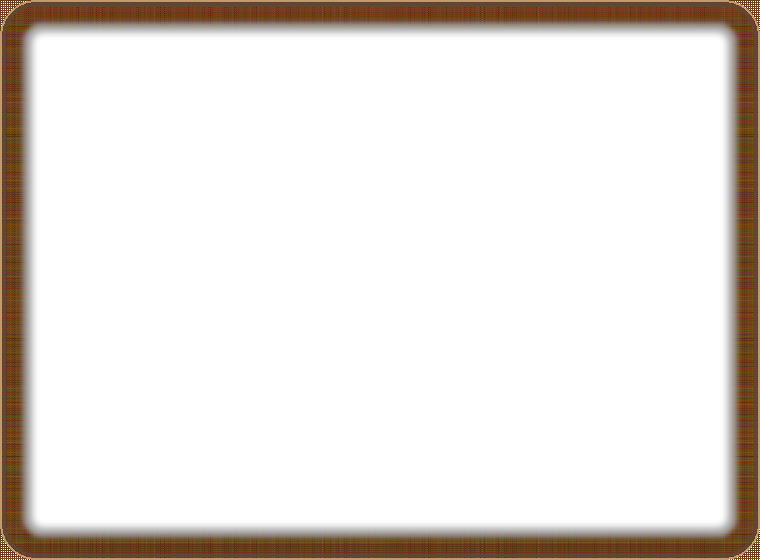
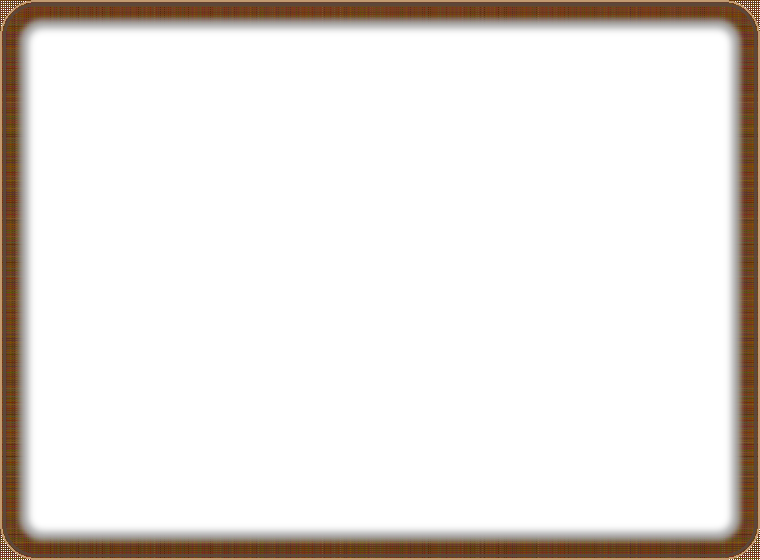
fix(ddz): 修正牌面贴图错位、木框压座位、手牌居中裁切
三个显示 bug：

1) 牌面张冠李戴（除黑桃外全部错位）。雪碧图是**按 8 列一行装箱**的，
   而取图序号写成了「花色段 × 13 + 点数位」之后又拿它去 `idx % 8` 求列，
   等于把「花色段」当成了「雪碧图行号」——两回事。黑桃段恰好对得上，
   所以只有黑桃是对的，红心/梅花/方块全部偏移到别的牌上，
   表现为底牌三张一模一样、手牌出现重复花色。
   现在按生成器的打包顺序算平铺序号（0..51 花色段×13+点数位，52 小王、53 大王），
   再拆成列/行。

2) 牌面在出牌区/窄屏下糊成一片。原来用固定像素缩放（SHEET_SCALE=0.484）
   算 background-size，这个系数只对手牌 62×93 成立；出牌区 52×78 与窄屏
   40×60 都错位。改为百分比定位：background-size 用 800% 700%，
   background-position 用 idx/(cols-1)，任何盒子尺寸都自动对齐，
   JS 里不再维护缩放系数。

3) 木框压住贴边的座位。frame.png 的透明内洞四边各留 36px（在 760×560 的图上），
   而 .ddz-table 的 padding 只有 22px，木纹因此盖住左右两家的名牌。
   把木框画薄到 20px（内洞 32px），padding 与之对齐到 30px。

顺带：
- 手牌容器 `justify-content:center` + `overflow-x:auto` 在内容溢出时
  起始边不可达，第一张牌会被挤出可滚动区域；改用 `margin:auto` 居中。
- .ddz-mini 里写死的 background-size 与 JS 打架，删掉。
- 牌桌加 width/max-width 约束，窄屏收紧内边距，避免横向溢出。

验证方式（无浏览器窗口，全部 headless）：
- 独立脚本复算 52 张牌的雪碧图序号，按角标颜色与同点数像素量核对，全部一致
- 百分比定位在 62×93 / 52×78 / 40×60 三种盒尺寸下逐格比对，零误差
- CDP 实跑一局：底牌/出牌/地主金冠与金头像框/手牌点数全部正确

Changed region(s): [[0.0, 0.0304, 0.9987, 0.9714]]

diff --git a/src/controllers/ddz-controller.ts b/src/controllers/ddz-controller.ts
@@ -37,17 +37,18 @@ const RANK_LABEL: Record<number, string> = {
   30: '大王',
 };
 /* ── 牌面雪碧图 ──
- * cards.png 是 8 列网格，每格 128×192（2× 于显示尺寸）。
- * 牌序与 gen-ddz-art.py 一致：黑桃 A..K、红心 A..K、梅花 A..K、方块 A..K、小王、大王。 */
+ * cards.png 是 8 列 × 7 行的网格，每格 128×192（2× 于显示尺寸）。
+ * 牌序与 scripts/gen-ddz-art.py 一致：
+ *   行 0 黑桃、行 1 红心、行 2 梅花、行 3 方块（A..K），行 4 小王、行 5 大王。
+ * 贴图不在这里算缩放，改用百分比定位，见 applyCardBg()。 */
 const SHEET_COLS = 8;
-const SHEET_TILE_W = 128;
-const SHEET_TILE_H = 192;
-const SHEET_W = SHEET_COLS * SHEET_TILE_W;
 const SHEET_ROWS = 7;
-const SHEET_H = SHEET_ROWS * SHEET_TILE_H;
 const SHEET_RANKS = ['A', '2', '3', '4', '5', '6', '7', '8', '9', '10', 'J', 'Q', 'K'] as const;
-/* 雪碧图按 2× 出图，缩到 0.484 正好对上 CSS 里的牌宽高 */
-const SHEET_SCALE = 0.484;
+/** 打包顺序里的花色段，必须与 gen-ddz-art.py 的 SUITS 一致 */
+const SHEET_SUITS = ['spade', 'heart', 'club', 'diamond'] as const;
+/** 大小王在打包顺序里的位置：4 花色 × 13 张之后 */
+const SHEET_JOKER_SMALL = 52;
+const SHEET_JOKER_BIG = 53;
 
 /** 牌值（3..17）→ 雪碧图里的点数记号 */
 const RANK_TO_SHEET: Record<number, string> = {
@@ -458,24 +459,40 @@ export class DoudizhuController {
     });
   }
 
-  /** 把一张牌贴到 cards.png 的对应格子上 */
+  /**
+   * 把一张牌贴到 cards.png 的对应格子上。
+   *
+   * 用百分比而不是像素：`background-size: 800% 700%` 让整张雪碧图正好是网格的
+   * 8×7 倍，每一格与元素同大小；`background-position` 的百分比相对
+   * (元素尺寸 - 图尺寸) 解析，所以第 n 格正好落在 n/(cols-1)。这样无论 CSS
+   * 把牌排成 62×93 的手牌、52×78 的出牌，还是窄屏的 40×60，贴图都自动对齐，
+   * JS 里不必再维护一份缩放系数。
+   */
   private applyCardBg(el: HTMLElement, c: DdzCard): void {
-    const row = this.sheetRow(c);
-    const rank = c.code === 20 ? 'small' : c.code === 30 ? 'big' : (RANK_TO_SHEET[c.code] ?? 'A');
-    const idx = row * SHEET_RANKS.length + (SHEET_RANKS as readonly string[]).indexOf(rank);
+    const idx = this.sheetIndex(c);
     const col = idx % SHEET_COLS;
     const line = Math.floor(idx / SHEET_COLS);
     el.style.backgroundImage = 'url("/ddz/cards.png")';
     el.style.backgroundRepeat = 'no-repeat';
-    el.style.backgroundSize = `${SHEET_W * SHEET_SCALE}px ${SHEET_H * SHEET_SCALE}px`;
-    el.style.backgroundPosition = `${-col * SHEET_TILE_W * SHEET_SCALE}px ${-line * SHEET_TILE_H * SHEET_SCALE}px`;
+    el.style.backgroundSize = `${SHEET_COLS * 100}% ${SHEET_ROWS * 100}%`;
+    el.style.backgroundPosition = `${(col / (SHEET_COLS - 1)) * 100}% ${(line / (SHEET_ROWS - 1)) * 100}%`;
   }
 
-  /** 牌在雪碧图里的行：0 黑桃 1 红心 2 梅花 3 方块 4 小王 5 大王 */
-  private sheetRow(c: DdzCard): number {
-    if (c.code === 20) return 4;
-    if (c.code === 30) return 5;
-    return c.suit;
+  /**
+   * 牌在雪碧图里的**平铺序号**（0..53）。
+   *
+   * 必须与 gen-ddz-art.py 的打包顺序严格一致：脚本先按
+   * 黑桃 → 红心 → 梅花 → 方块 把 4×13 张牌依次排成一条线，再接上小王、大王，
+   * 然后按 8 列一行装箱。所以序号是「花色段 × 13 + 点数位」，
+   * 而**不是**「雪碧图行号 × 13 + 点数位」——雪碧图一行只有 8 格，
+   * 花色段和雪碧图行号根本不是一回事。搞混会让除黑桃外的每种花色都错位。
+   */
+  private sheetIndex(c: DdzCard): number {
+    if (c.code === 20) return SHEET_JOKER_SMALL;
+    if (c.code === 30) return SHEET_JOKER_BIG;
+    const suit = (SHEET_SUITS as readonly string[]).indexOf(SHEET_SUITS[c.suit] ?? 'spade');
+    const rank = (SHEET_RANKS as readonly string[]).indexOf(RANK_TO_SHEET[c.code] ?? 'A');
+    return (suit < 0 ? 0 : suit) * SHEET_RANKS.length + (rank < 0 ? 0 : rank);
   }
 
   /** 底牌：地主确定前是牌背，之后翻成真牌 */

diff --git a/styles.css b/styles.css
@@ -970,11 +970,16 @@ footer::before {
   transform: rotate(-5deg);
 }
 
-/* ══ 牌桌主体 ══ */
+/* ══ 牌桌主体 ══
+   牌桌宽度跟随容器，窄屏靠收紧内边距与牌尺寸适配，不做横向溢出。
+   内边距必须容纳木框的画宽：frame.png 的透明内洞在 760×560 的图上四边各留 36px，
+   摊到实际尺寸约 34px。padding 小于它，木纹就会压住贴边的座位。 */
 .ddz-table {
   position: relative;
+  width: 100%;
+  max-width: 100%;
   border-radius: 26px;
-  padding: 22px;
+  padding: 30px;
   min-height: 560px;
   border: 3px solid var(--ddz-wood-dark);
   box-shadow:
@@ -1001,7 +1006,7 @@ footer::before {
   background: url("/ddz/frame.png") center / 100% 100% no-repeat;
   pointer-events: none;
 }
-.ddz-table-inner { position: relative; z-index: 2; min-height: 516px; }
+.ddz-table-inner { position: relative; z-index: 2; min-height: 488px; }
 
 /* ══ 座位 ══
    左右两家的名牌靠边对齐：名字朝内、头像朝外，和牌桌主角的座位呼应。 */
@@ -1186,11 +1191,13 @@ footer::before {
 /* ══ 手牌扇面 ══ */
 .ddz-hand {
   position: relative;
-  display: flex; justify-content: center; align-items: flex-end;
-  height: 112px; padding: 22px 10px 8px;
+  display: flex; align-items: flex-end;
+  height: 118px; padding: 26px 10px 8px;
   overflow-x: auto; overflow-y: hidden;
   scrollbar-width: thin;
 }
+/* 用 margin:auto 而不是 justify-content:center 居中。
+   后者在内容溢出时会让起始边不可达，第一张牌被挤出可滚动区域、点不到也看不见。 */
 .ddz-card {
   position: relative; flex: none;
   width: var(--ddz-card-w); height: var(--ddz-card-h);
@@ -1202,7 +1209,8 @@ footer::before {
   -webkit-tap-highlight-color: transparent;
   user-select: none;
 }
-.ddz-card:first-child { margin-left: 0; }
+.ddz-card:first-child { margin-left: auto; }
+.ddz-card:last-child { margin-right: auto; }
 .ddz-card img { width: 100%; height: 100%; display: block; border-radius: 7px; }
 .ddz-card::after {
   content: ''; position: absolute; inset: 0; border-radius: 7px;
@@ -1224,13 +1232,13 @@ footer::before {
 @media (prefers-reduced-motion: reduce) { .ddz-card.dealt { animation: none; } }
 
 /* ══ 桌上打出的牌 ══ */
+/* 贴图位置由 JS 按百分比写入（见 ddz-controller.ts 的 applyCardBg），
+   这里只定尺寸；写死 background-size 会和 JS 打架。 */
 .ddz-mini {
   position: relative; flex: none;
   width: 52px; height: 78px;
   border-radius: 6px; overflow: hidden;
-  background-image: url("/ddz/cards.png");
   background-repeat: no-repeat;
-  background-size: 819.2px 1075.2px;
   filter: drop-shadow(1px 2px 3px rgba(0, 0, 0, .45));
 }
 .ddz-mini::after {
@@ -1304,8 +1312,9 @@ footer::before {
 /* ══ 窄屏 ══ */
 @media (max-width: 720px) {
   #view-ddz { --ddz-card-w: 46px; --ddz-card-h: 69px; --ddz-span: 22px; }
-  .ddz-table { padding: 16px; min-height: 470px; border-radius: 20px; }
-  .ddz-table-inner { min-height: 436px; }
+  /* 木框内洞约 4.7% 宽，窄屏按同比例收，别让木纹压住座位 */
+  .ddz-table { padding: 22px 18px; min-height: 440px; border-radius: 18px; }
+  .ddz-table-inner { min-height: 396px; }
   .ddz-portrait { width: 44px; height: 44px; }
   .ddz-avatar-img { inset: 4px; width: 36px; height: 36px; }
   .ddz-avatar-ring { width: 44px; height: 44px; }

diff --git a/scripts/gen-ddz-art.py b/scripts/gen-ddz-art.py
@@ -234,7 +234,7 @@ def round_mask(size, radius):
     return m
 
 
-def make_wood_frame(w, h, thickness=24, radius=36):
+def make_wood_frame(w, h, thickness=20, radius=36):
     """木质外框：木纹 + 内侧阴影，中心透明，直接罩在桌布上。"""
     import random
     img = Image.new('RGBA', (w, h), (0, 0, 0, 0))
@@ -436,7 +436,9 @@ def build_ui() -> None:
     log('绘制 UI 元件…')
     os.makedirs(UI_DIR, exist_ok=True)
     make_felt(760, 560).save(os.path.join(OUT_DIR, 'felt.jpg'), quality=88)
-    make_wood_frame(760, 560).save(os.path.join(OUT_DIR, 'frame.png'))
+    # 木框厚度直接决定「绒布可用区域」：frame.png 会被拉伸到牌桌尺寸，
+    # 木纹画多宽，贴边的座位就被压住多少。20px 是观感与余量的平衡点。
+    make_wood_frame(760, 560, thickness=20).save(os.path.join(OUT_DIR, 'frame.png'))
     make_back().save(os.path.join(UI_DIR, 'card-back.png'))
     make_glow('glow')
     make_timer_ring('timer-ring')
